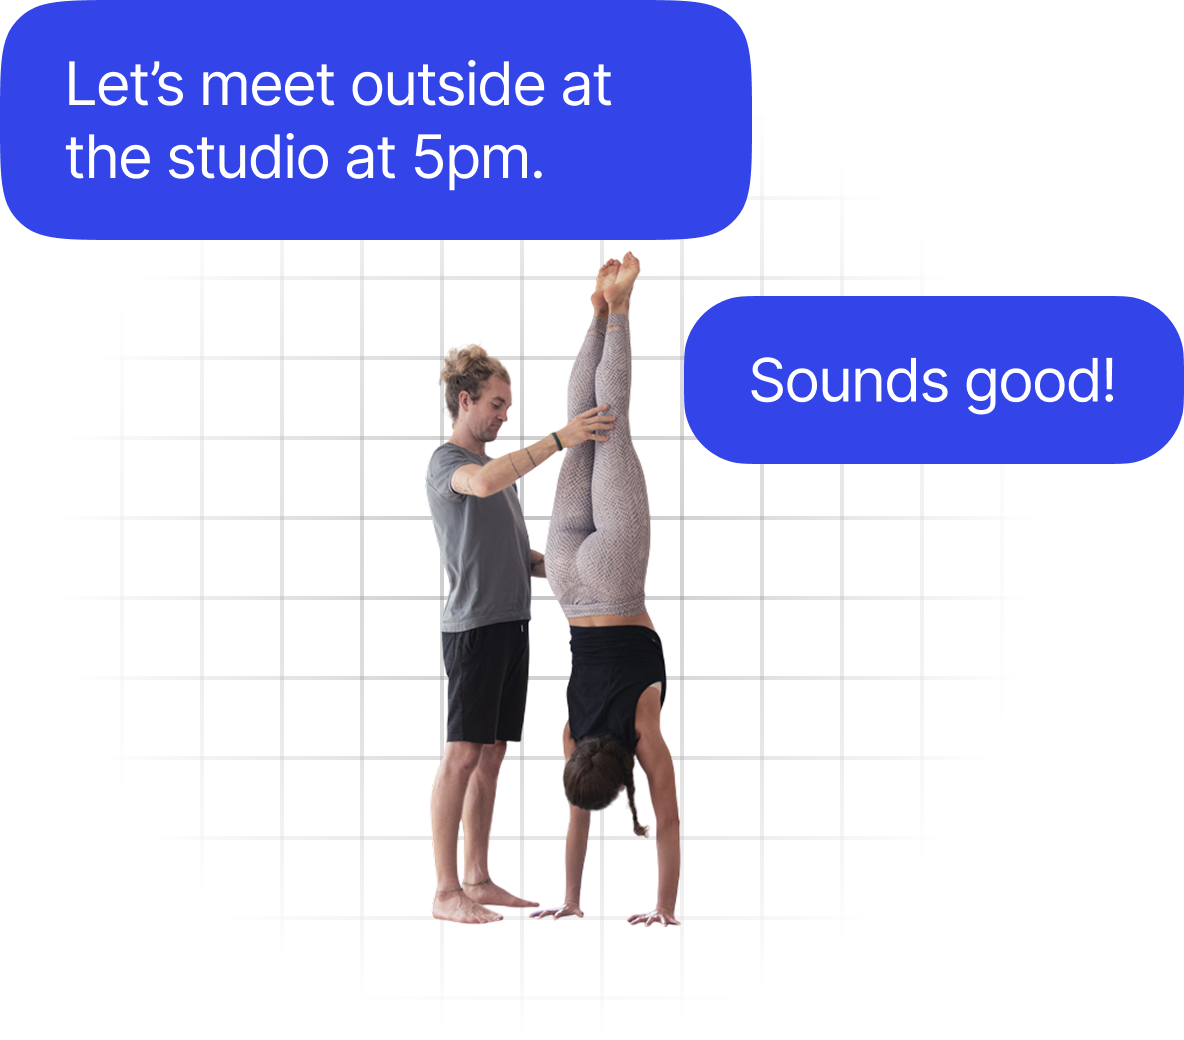
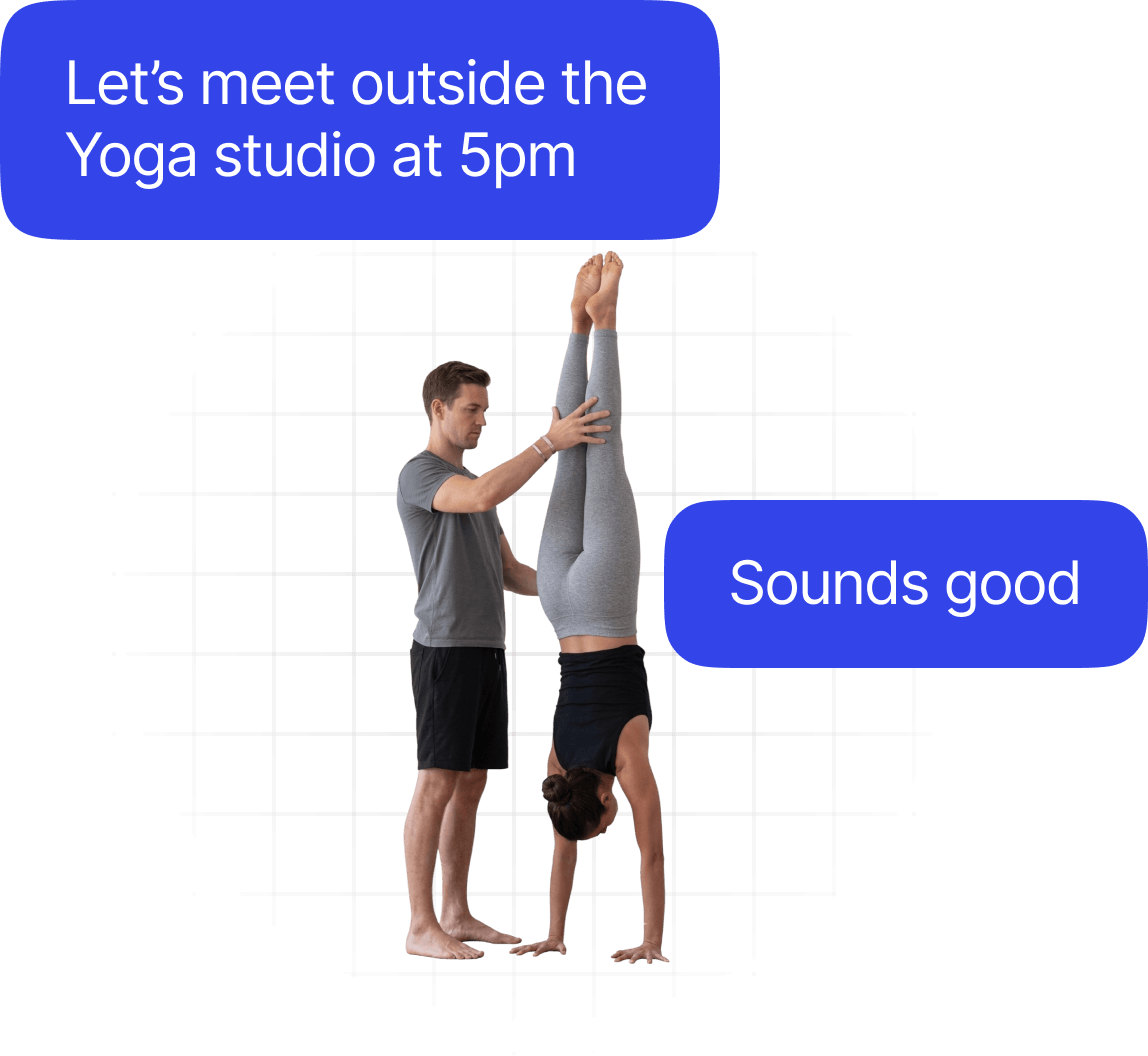
Change: empty state images

diff --git a/src/screens/event-details/HostRequestTabs.tsx b/src/screens/event-details/HostRequestTabs.tsx
@@ -4,14 +4,17 @@ import { View } from 'react-native';
 
 import Animated, { useAnimatedStyle, useSharedValue, withTiming } from 'react-native-reanimated';
 
-import EmptyAcceptedIcon from '@assets/event-details/empty-accepted.svg';
-import EmptyRequestIcon from '@assets/event-details/empty-request.svg';
 import EmptyState from '@components/EmptyState';
 import { EventMemberRow, EventRequestRow, EventRequestRowSeparator } from '@components/events';
 import { SlidingTabs } from '@components/ui';
 import { ChatJoinRequest } from '@context/ChatContext';
 
 import styles from './EventDetailsScreen.styles';
+
+// Shared illustration for both the Requests and Accepted/Members empty states.
+const EMPTY_ILLUSTRATION = require('@assets/illustration/empty-requested-accepted.png');
+const EMPTY_ILLUSTRATION_WIDTH = 293;
+const EMPTY_ILLUSTRATION_HEIGHT = 245;
 
 type MemberLike = {
   id: number;
@@ -121,7 +124,9 @@ const HostRequestTabs = ({
               <EmptyState
                 title="No requests yet"
                 description="Join requests will appear here"
-                icon={<EmptyRequestIcon width={64} height={64} />}
+                imageSource={EMPTY_ILLUSTRATION}
+                imageWidth={EMPTY_ILLUSTRATION_WIDTH}
+                imageHeight={EMPTY_ILLUSTRATION_HEIGHT}
                 style={{ marginTop: 32 }}
               />
             ) : (
@@ -150,7 +155,9 @@ const HostRequestTabs = ({
                 <EmptyState
                   title="No accepted members yet"
                   description="Members you accept will appear here"
-                  icon={<EmptyAcceptedIcon width={64} height={64} />}
+                  imageSource={EMPTY_ILLUSTRATION}
+                  imageWidth={EMPTY_ILLUSTRATION_WIDTH}
+                  imageHeight={EMPTY_ILLUSTRATION_HEIGHT}
                   style={{ marginTop: 32 }}
                 />
               ) : (
@@ -167,7 +174,9 @@ const HostRequestTabs = ({
               <EmptyState
                 title="No members yet"
                 description="Members who join will appear here"
-                icon={<EmptyAcceptedIcon width={64} height={64} />}
+                imageSource={EMPTY_ILLUSTRATION}
+                imageWidth={EMPTY_ILLUSTRATION_WIDTH}
+                imageHeight={EMPTY_ILLUSTRATION_HEIGHT}
                 style={{ marginTop: 32 }}
               />
             ) : (

diff --git a/src/screens/JoinRequestsScreen.tsx b/src/screens/JoinRequestsScreen.tsx
@@ -4,8 +4,6 @@ import { RouteProp, useFocusEffect, useNavigation, useRoute } from '@react-navig
 import { NativeStackNavigationProp } from '@react-navigation/native-stack';
 import AcceptIcon from '@assets/event-details/accept.svg';
 import RejectIcon from '@assets/event-details/reject.svg';
-import EmptyAcceptedIcon from '@assets/event-details/empty-accepted.svg';
-import EmptyRequestIcon from '@assets/event-details/empty-request.svg';
 import EmptyState from '@components/EmptyState';
 
 import { colors, spacing, typography } from '@theme/index';
@@ -21,6 +19,11 @@ import { useCovers } from '@context/CoversContext';
 import { triggerHaptic } from '@services/haptics';
 import { formatAbsoluteDateLabel } from '@utils/dateTime';
 import { formatEventLocationName } from '@utils/eventDisplay';
+
+// Shared illustration for the request/accepted empty states.
+const EMPTY_ILLUSTRATION = require('@assets/illustration/empty-requested-accepted.png');
+const EMPTY_ILLUSTRATION_WIDTH = 293;
+const EMPTY_ILLUSTRATION_HEIGHT = 245;
 
 type JoinRequestsRoute = RouteProp<RootStackParamList, 'JoinRequests'>;
 type JoinRequestsNavigation = NativeStackNavigationProp<RootStackParamList, 'JoinRequests'>;
@@ -139,14 +142,18 @@ const JoinRequestsScreen = () => {
         <EmptyState
           title="No accepted members yet"
           description="Chats from accepted members will appear here"
-          icon={<EmptyAcceptedIcon width={64} height={64} />}
+          imageSource={EMPTY_ILLUSTRATION}
+          imageWidth={EMPTY_ILLUSTRATION_WIDTH}
+          imageHeight={EMPTY_ILLUSTRATION_HEIGHT}
           style={{ marginTop: 32 }}
         />
       ) : (
         <EmptyState
           title="No pending requests"
           description="You'll see new join requests here when attendees tap Interested."
-          icon={<EmptyRequestIcon width={64} height={64} />}
+          imageSource={EMPTY_ILLUSTRATION}
+          imageWidth={EMPTY_ILLUSTRATION_WIDTH}
+          imageHeight={EMPTY_ILLUSTRATION_HEIGHT}
           style={{ marginTop: 32 }}
         />
       ),

diff --git a/src/screens/event-details/EventDetailsMembers.tsx b/src/screens/event-details/EventDetailsMembers.tsx
@@ -1,6 +1,5 @@
 import { ActivityIndicator, Text, View } from 'react-native';
 
-import EmptyAcceptedIcon from '@assets/event-details/empty-accepted.svg';
 import EmptyState from '@components/EmptyState';
 import { EventMemberRow } from '@components/events';
 import { SlidingTabs } from '@components/ui';
@@ -8,6 +7,11 @@ import { colors } from '@theme/index';
 
 import styles from './EventDetailsScreen.styles';
 import { EventDetailMember } from './useEventDetailsData';
+
+// Shared illustration for the members empty state.
+const EMPTY_ILLUSTRATION = require('@assets/illustration/empty-requested-accepted.png');
+const EMPTY_ILLUSTRATION_WIDTH = 293;
+const EMPTY_ILLUSTRATION_HEIGHT = 245;
 
 type MemberLike = {
   id: number;
@@ -56,7 +60,9 @@ const EventDetailsMembers = (props: EventDetailsMembersProps) => {
             <EmptyState
               title="No members yet"
               description="Members who join will appear here"
-              icon={<EmptyAcceptedIcon width={64} height={64} />}
+              imageSource={EMPTY_ILLUSTRATION}
+              imageWidth={EMPTY_ILLUSTRATION_WIDTH}
+              imageHeight={EMPTY_ILLUSTRATION_HEIGHT}
               style={{ marginTop: 32 }}
             />
           ) : (
@@ -98,7 +104,9 @@ const EventDetailsMembers = (props: EventDetailsMembersProps) => {
           <EmptyState
             title="No members yet"
             description="Members who join will appear here"
-            icon={<EmptyAcceptedIcon width={64} height={64} />}
+            imageSource={EMPTY_ILLUSTRATION}
+            imageWidth={EMPTY_ILLUSTRATION_WIDTH}
+            imageHeight={EMPTY_ILLUSTRATION_HEIGHT}
             style={{ marginTop: 32 }}
           />
         ) : (

diff --git a/src/screens/PendingRequestsScreen.tsx b/src/screens/PendingRequestsScreen.tsx
@@ -3,7 +3,6 @@ import { RefreshControl, ScrollView, StyleSheet, Text, View } from 'react-native
 import { RouteProp, useNavigation, useRoute } from '@react-navigation/native';
 import { NativeStackNavigationProp } from '@react-navigation/native-stack';
 import CloseIcon from '@assets/ui/close.svg';
-import EmptyRequestIcon from '@assets/event-details/empty-request.svg';
 
 import { colors, spacing, typography } from '@theme/index';
 import { useChat, ChatJoinRequest } from '@context/ChatContext';
@@ -12,6 +11,11 @@ import EmptyState from '@components/EmptyState';
 import ScreenContainer from '@components/ScreenContainer';
 import { EventRequestRow, EventRequestRowSeparator } from '@components/events';
 import { IconButton } from '@components/ui';
+
+// Shared illustration for the request empty state.
+const EMPTY_ILLUSTRATION = require('@assets/illustration/empty-requested-accepted.png');
+const EMPTY_ILLUSTRATION_WIDTH = 293;
+const EMPTY_ILLUSTRATION_HEIGHT = 245;
 
 type PendingRequestsRoute = RouteProp<RootStackParamList, 'PendingRequests'>;
 type PendingRequestsNavigation = NativeStackNavigationProp<RootStackParamList, 'PendingRequests'>;
@@ -116,7 +120,9 @@ const PendingRequestsScreen = () => {
             <EmptyState
               title="No pending requests"
               description="Join requests will appear here"
-              icon={<EmptyRequestIcon width={64} height={64} />}
+              imageSource={EMPTY_ILLUSTRATION}
+              imageWidth={EMPTY_ILLUSTRATION_WIDTH}
+              imageHeight={EMPTY_ILLUSTRATION_HEIGHT}
             />
           ) : (
             pendingRequests.map((item, index) => (
